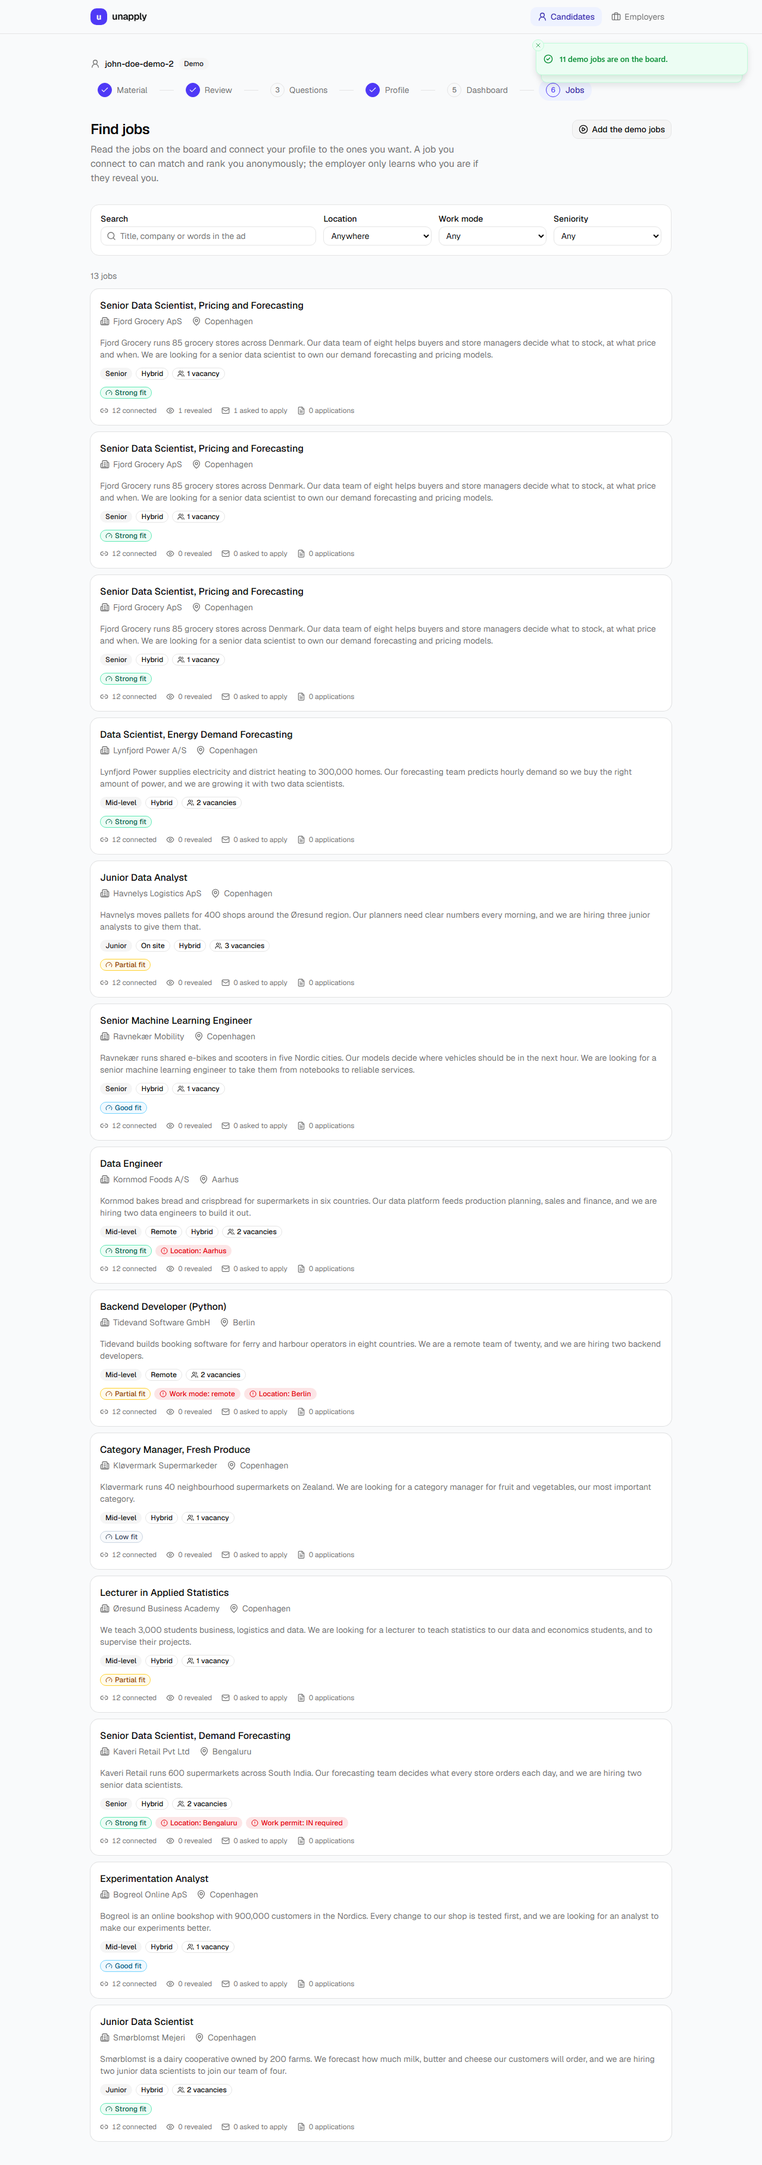
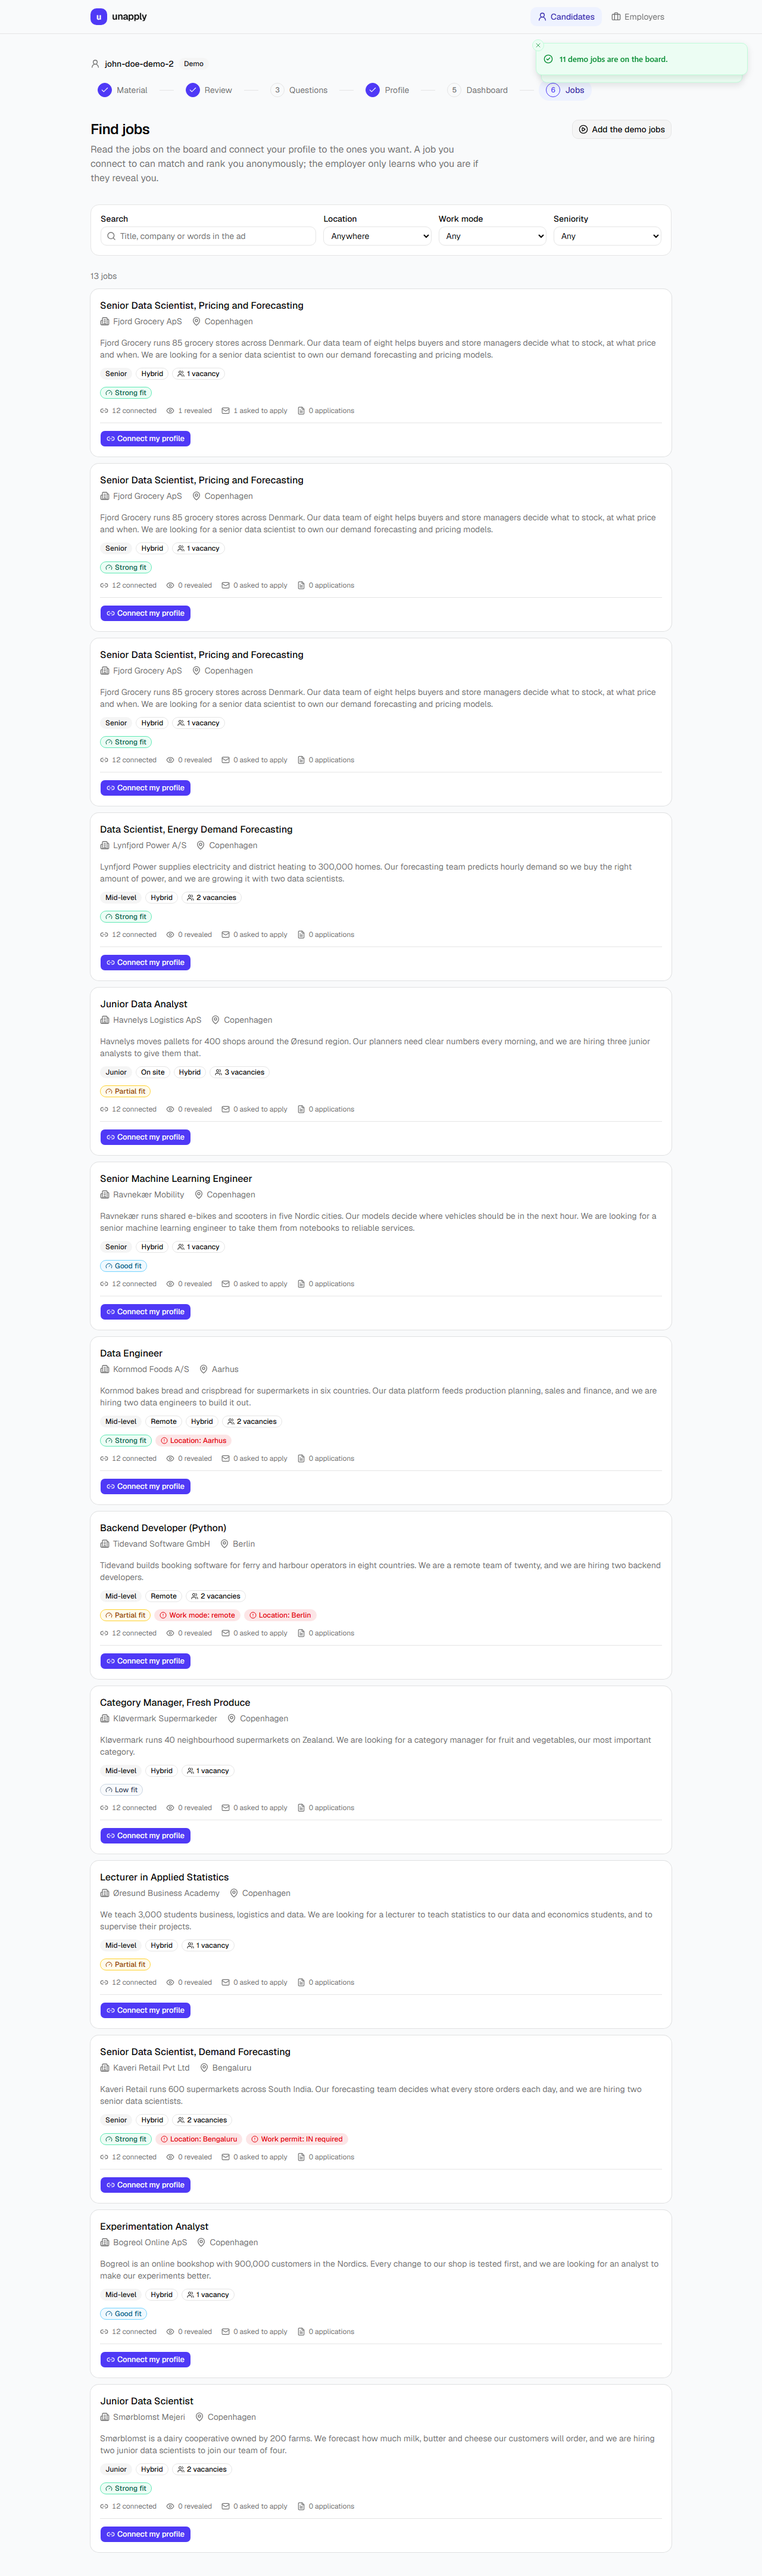
feat: Connect and withdraw from the job board's cards (#22)
Each card on the board gets Connect my profile, or Withdraw once connected,
the same action and rules as the listing: approved profiles only, and no
withdrawing once revealed. Tested with Vitest and a step in John's board demo.

diff --git a/frontend/src/pages/candidate/Jobs.tsx b/frontend/src/pages/candidate/Jobs.tsx
@@ -35,13 +35,29 @@ import { Label } from '@/components/ui/label'
 import { Textarea } from '@/components/ui/textarea'
 import { api } from '@/lib/api'
 import { adSummary, day, placeText, seniorityLabel, SENIORITIES, vacancies, workModeLabel } from '@/lib/format'
-import type { BoardQuery, Connection, Fit, Listing, Seniority, Stage, WorkMode } from '@/lib/types'
+import type { BoardQuery, Connection, Fit, Listing, Seniority, WorkMode } from '@/lib/types'
 import { useResource } from '@/lib/useResource'
 import { cn } from '@/lib/utils'
 import { useCandidate } from '@/pages/candidate/context'
 
 /** Wait this long after the last key before searching, in milliseconds. */
 const SEARCH_DELAY = 250
+
+/**
+ * Connect the candidate's profile to a job, or withdraw it, and say so.
+ *
+ * The board's cards and the listing both use this, so the two act the same; the server
+ * refuses unapproved profiles and withdrawals after a reveal.
+ */
+async function changeConnection(name: string, job: string, company: string, connect: boolean) {
+  if (connect) {
+    await api.connect(name, job)
+    toast.success(`Your profile is connected to ${company}.`)
+  } else {
+    await api.withdraw(name, job)
+    toast.success(`You withdrew from ${company}.`)
+  }
+}
 
 /** The job board: browse and search the listings, and see which you connected to. */
 export function JobBoard() {
@@ -67,12 +83,28 @@ export function JobBoard() {
   }
   const board = useResource(() => api.board(query), JSON.stringify(query))
   const connections = useResource(() => api.connections(name), name)
-  const stageOf = new Map((connections.data ?? []).map((c) => [c.job, c.stage]))
+  const connectionOf = new Map((connections.data ?? []).map((c) => [c.job, c]))
   const requests = (connections.data ?? []).filter((c) => c.stage === 'requested' && c.listing)
   // How well you fit each job; the board works without it if it can't load.
   const fits = useResource(() => api.fits(name), `${name}:${board.data?.total ?? 0}`)
   const fitOf = new Map((fits.data ?? []).map((f) => [f.job, f]))
   const filtered = Boolean(q || location || workMode || seniority)
+  // The job whose connection is changing, and the error if that failed.
+  const [changing, setChanging] = useState<string | null>(null)
+  const [changeError, setChangeError] = useState<{ job: string; error: unknown } | null>(null)
+
+  async function change(x: Listing, connect: boolean) {
+    setChanging(x.name)
+    setChangeError(null)
+    try {
+      await changeConnection(name, x.name, x.company, connect)
+      await Promise.all([connections.reload(), fits.reload()])
+    } catch (e) {
+      setChangeError({ job: x.name, error: e })
+    } finally {
+      setChanging(null)
+    }
+  }
 
   function clear() {
     setText('')
@@ -154,6 +186,15 @@ export function JobBoard() {
         <ErrorAlert error={error} title="Couldn't add the demo jobs" />
       </div>
       {requests.length > 0 && <Requests requests={requests} />}
+      {!summary.approved && (
+        <p className="mb-4 text-sm text-muted-foreground">
+          Approve your profile to connect it to jobs:{' '}
+          <Link to="../review" className="text-primary underline-offset-4 hover:underline">
+            go to your review
+          </Link>
+          .
+        </p>
+      )}
       <div role="search" aria-label="Filter the jobs" className="mb-6 grid gap-3 rounded-xl border bg-card p-4 sm:grid-cols-2 lg:grid-cols-[2fr_1fr_1fr_1fr]">
         <div className="space-y-1.5">
           <Label htmlFor="board-q">Search</Label>
@@ -220,7 +261,24 @@ export function JobBoard() {
         <ul className="space-y-3" aria-label="Jobs">
           {b.listings.map((x) => (
             <li key={x.name}>
-              <ListingCard listing={x} stage={stageOf.get(x.name)} fit={fitOf.get(x.name)} />
+              <ListingCard
+                listing={x}
+                connection={connectionOf.get(x.name)}
+                fit={fitOf.get(x.name)}
+                // Until the connections load, the card can't tell which action fits.
+                action={
+                  connections.data ? (
+                    <CardConnect
+                      listing={x}
+                      connection={connectionOf.get(x.name)}
+                      approved={summary.approved}
+                      busy={changing === x.name}
+                      error={changeError?.job === x.name ? changeError.error : null}
+                      onChange={(connect) => change(x, connect)}
+                    />
+                  ) : undefined
+                }
+              />
             </li>
           ))}
         </ul>
@@ -286,7 +344,18 @@ function Requests({ requests }: { requests: Connection[] }) {
   )
 }
 
-function ListingCard({ listing: x, stage, fit }: { listing: Listing; stage?: Stage; fit?: Fit }) {
+function ListingCard({
+  listing: x,
+  connection,
+  fit,
+  action,
+}: {
+  listing: Listing
+  connection?: Connection
+  fit?: Fit
+  action?: ReactNode
+}) {
+  const stage = connection?.stage
   const connected = stage !== undefined
   return (
     <Card className={cn('transition-colors hover:border-primary/40', connected && 'border-primary/40')}>
@@ -316,8 +385,61 @@ function ListingCard({ listing: x, stage, fit }: { listing: Listing; stage?: Sta
         </div>
         {fit && <FitSummary fit={fit} />}
         {x.counts && <Counts counts={x.counts} className="text-xs" />}
+        {action}
       </CardContent>
     </Card>
+  )
+}
+
+/**
+ * Connect or withdraw from a card on the board, by the listing's rules: approved
+ * profiles only, and no withdrawing once revealed.
+ */
+function CardConnect({
+  listing: x,
+  connection,
+  approved,
+  busy,
+  error,
+  onChange,
+}: {
+  listing: Listing
+  connection?: Connection
+  approved: boolean
+  busy: boolean
+  error: unknown
+  onChange: (connect: boolean) => void
+}) {
+  let action: ReactNode
+  if (connection?.progress?.revealed_at) {
+    action = (
+      <p className="text-xs text-muted-foreground">
+        {x.company} revealed you on {day(connection.progress.revealed_at)}; the connection stays.
+      </p>
+    )
+  } else if (connection) {
+    action = (
+      <Button variant="outline" size="sm" disabled={busy} aria-label={`Withdraw: ${x.title}`} onClick={() => onChange(false)}>
+        {busy ? <Loader2 className="animate-spin" aria-hidden /> : <Link2Off aria-hidden />} Withdraw
+      </Button>
+    )
+  } else {
+    action = (
+      <Button
+        size="sm"
+        disabled={!approved || busy}
+        aria-label={`Connect my profile: ${x.title}`}
+        onClick={() => onChange(true)}
+      >
+        {busy ? <Loader2 className="animate-spin" aria-hidden /> : <Link2 aria-hidden />} Connect my profile
+      </Button>
+    )
+  }
+  return (
+    <div className="space-y-2 border-t pt-3">
+      {action}
+      <ErrorAlert error={error} title={connection ? "Couldn't withdraw" : "Couldn't connect"} />
+    </div>
   )
 }
 
@@ -369,13 +491,7 @@ export function JobListing() {
     setBusy(true)
     setError(null)
     try {
-      if (connect) {
-        await api.connect(name, job)
-        toast.success(`Your profile is connected to ${x.company}.`)
-      } else {
-        await api.withdraw(name, job)
-        toast.success(`You withdrew from ${x.company}.`)
-      }
+      await changeConnection(name, job, x.company, connect)
       await Promise.all([connections.reload(), fit.reload()])
     } catch (e) {
       setError(e)

diff --git a/frontend/src/pages/candidate/jobs.test.tsx b/frontend/src/pages/candidate/jobs.test.tsx
@@ -168,6 +168,92 @@ describe('the job board', () => {
     expect(await screen.findByRole('list', { name: 'Jobs' })).toBeInTheDocument()
   })
 
+  it('connects and withdraws from a card, as on the listing', async () => {
+    approved()
+    vi.spyOn(api, 'board').mockResolvedValue(board())
+    const connections = vi.spyOn(api, 'connections').mockResolvedValue([])
+    const fits = vi.spyOn(api, 'fits').mockResolvedValue([])
+    const connect = vi.spyOn(api, 'connect').mockResolvedValue(connection())
+    const withdraw = vi.spyOn(api, 'withdraw').mockResolvedValue(undefined)
+    const { user } = renderApp('/candidates/john-doe/jobs')
+
+    const cards = within(await screen.findByRole('list', { name: 'Jobs' })).getAllByRole('listitem')
+    const button = await within(cards[0]).findByRole('button', { name: 'Connect my profile: Senior Data Scientist, Pricing and Forecasting' })
+    expect(button).toHaveTextContent('Connect my profile')
+    expect(within(cards[1]).getByRole('button', { name: /^Connect my profile: / })).toBeEnabled()
+    expect(screen.queryByRole('link', { name: 'go to your review' })).toBeNull()
+
+    connections.mockResolvedValue([connection()])
+    await user.click(button)
+    expect(connect).toHaveBeenCalledWith('john-doe', 'board-fjord-grocery')
+    expect(await screen.findByText('Your profile is connected to Fjord Grocery ApS.')).toBeInTheDocument()
+    expect(await within(cards[0]).findByText('Connected')).toBeInTheDocument()
+    // The fit is asked again, for the place among the connected.
+    expect(fits.mock.calls.length).toBeGreaterThan(1)
+    // The other card is unchanged.
+    expect(within(cards[1]).getByRole('button', { name: /^Connect my profile: / })).toBeEnabled()
+
+    connections.mockResolvedValue([])
+    await user.click(within(cards[0]).getByRole('button', { name: 'Withdraw: Senior Data Scientist, Pricing and Forecasting' }))
+    expect(withdraw).toHaveBeenCalledWith('john-doe', 'board-fjord-grocery')
+    expect(await screen.findByText('You withdrew from Fjord Grocery ApS.')).toBeInTheDocument()
+    expect(
+      await within(cards[0]).findByRole('button', { name: 'Connect my profile: Senior Data Scientist, Pricing and Forecasting' }),
+    ).toBeEnabled()
+    expect(within(cards[0]).queryByText('Connected')).toBeNull()
+    expect(document.querySelector('main')?.textContent).not.toMatch(HIDDEN)
+  })
+
+  it('says on the card why a withdrawal was refused', async () => {
+    approved()
+    vi.spyOn(api, 'board').mockResolvedValue(board())
+    vi.spyOn(api, 'connections').mockResolvedValue([connection()])
+    vi.spyOn(api, 'withdraw').mockRejectedValue(new ApiError(409, 'The employer has revealed you for this job.'))
+    const { user } = renderApp('/candidates/john-doe/jobs')
+
+    const cards = within(await screen.findByRole('list', { name: 'Jobs' })).getAllByRole('listitem')
+    await user.click(await within(cards[0]).findByRole('button', { name: 'Withdraw: Senior Data Scientist, Pricing and Forecasting' }))
+    expect(await within(cards[0]).findByText("Couldn't withdraw")).toBeInTheDocument()
+    expect(within(cards[0]).getByText('The employer has revealed you for this job.')).toBeInTheDocument()
+    expect(within(cards[1]).queryByText("Couldn't withdraw")).toBeNull()
+  })
+
+  it('offers no withdrawal on a card once revealed', async () => {
+    approved()
+    vi.spyOn(api, 'board').mockResolvedValue(board())
+    vi.spyOn(api, 'connections').mockResolvedValue([progressed('requested')])
+    renderApp('/candidates/john-doe/jobs')
+
+    const cards = within(await screen.findByRole('list', { name: 'Jobs' })).getAllByRole('listitem')
+    expect(
+      await within(cards[0]).findByText('Fjord Grocery ApS revealed you on 27 Nov 2026; the connection stays.'),
+    ).toBeInTheDocument()
+    expect(within(cards[0]).queryByRole('button', { name: /Withdraw|Connect my profile/ })).toBeNull()
+    expect(within(cards[1]).getByRole('button', { name: /^Connect my profile: / })).toBeEnabled()
+  })
+
+  it('needs an approved profile to connect from a card', async () => {
+    vi.spyOn(api, 'candidate').mockResolvedValue(candidate({ has_profile: true, approved: false }))
+    vi.spyOn(api, 'board').mockResolvedValue(board())
+    vi.spyOn(api, 'connections').mockResolvedValue([])
+    renderApp('/candidates/john-doe/jobs')
+
+    const cards = within(await screen.findByRole('list', { name: 'Jobs' })).getAllByRole('listitem')
+    for (const card of cards) {
+      expect(await within(card).findByRole('button', { name: /^Connect my profile: / })).toBeDisabled()
+    }
+    expect(screen.getByRole('link', { name: 'go to your review' })).toHaveAttribute('href', '/candidates/john-doe/review')
+  })
+
+  it('shows no card actions until the connections load', async () => {
+    approved()
+    vi.spyOn(api, 'board').mockResolvedValue(board())
+    vi.spyOn(api, 'connections').mockReturnValue(new Promise(() => {}))
+    renderApp('/candidates/john-doe/jobs')
+    await screen.findByRole('list', { name: 'Jobs' })
+    expect(screen.queryByRole('button', { name: /Connect my profile|Withdraw/ })).toBeNull()
+  })
+
   it('shows an error when the board does not load', async () => {
     approved()
     vi.spyOn(api, 'board').mockRejectedValue(new ApiError(500, 'The server broke.'))

diff --git a/frontend/e2e/demos.spec.ts b/frontend/e2e/demos.spec.ts
@@ -374,6 +374,22 @@ test('the job board in John Doe\'s demo: search, read, connect and withdraw', as
   const without = (await ranked()).map((c) => c.profile_id)
   expect(without).toHaveLength(12)
   expect(without).not.toContain(profile.id)
+
+  // Connect and withdraw from the card on the board, the same action as on the listing.
+  await page.getByRole('link', { name: 'All jobs' }).click()
+  const title = 'Data Scientist, Energy Demand Forecasting'
+  await card.getByRole('button', { name: `Connect my profile: ${title}` }).click()
+  await expect(page.getByText('Your profile is connected to Lynfjord Power A/S.')).toBeVisible()
+  await expect(card.getByText('Connected', { exact: true })).toBeVisible()
+  await expect(card.getByRole('button', { name: `Withdraw: ${title}` })).toBeEnabled()
+  await expect(card.getByRole('group', { name: 'Your fit' })).toBeVisible()
+  expect((await ranked()).map((c) => c.profile_id)).toContain(profile.id)
+  await card.scrollIntoViewIfNeeded()
+  await shot(page, '20b-job-board-card-connected', { fullPage: false })
+  await card.getByRole('button', { name: `Withdraw: ${title}` }).click()
+  await expect(card.getByRole('button', { name: `Connect my profile: ${title}` })).toBeEnabled()
+  await expect(card.getByText('Connected', { exact: true })).toHaveCount(0)
+  expect((await ranked()).map((c) => c.profile_id)).not.toContain(profile.id)
 })
 
 test('reveal, request and apply: John Doe applies to one job and declines another', async ({ page }) => {

diff --git a/README.md b/README.md
@@ -86,7 +86,7 @@ npm run dev                   # http://localhost:5173
   never shown. Then the **job board**: browse and search the jobs (free text over
   title, company and ad; filters for location, work mode and seniority), read a
   listing in full (the ad and its vacancies, never the rubric), and **connect my
-  profile** to a job with one click. Connecting is the candidate's consent for that
+  profile** to a job with one click, from its card on the board or the listing. Connecting is the candidate's consent for that
   job, recorded with its time: only connected candidates are matched and ranked.
   It can be withdrawn, which takes the candidate out of the job's next ranking,
   until the employer reveals them. Each listing shows how many connected, were

diff --git a/docs/poc-plan.md b/docs/poc-plan.md
@@ -201,6 +201,9 @@ Pydantic models for Profile, Evidence, SkillRating, Rubric and Match (`src/unapp
   and asked to apply, out of connected), and for a job where they weren't revealed
   the skills common among the candidates who were (at least five) that they lack
   or rated lower, from own levels only.
+- Done (task 22): **Connect my profile** and **Withdraw** on each board card, the
+  same action and rules as on the listing (approved profiles only, no withdrawing
+  once revealed; a revealed card says the connection stays).
 
 ## The key experiment (run alongside M1–M4)
 
